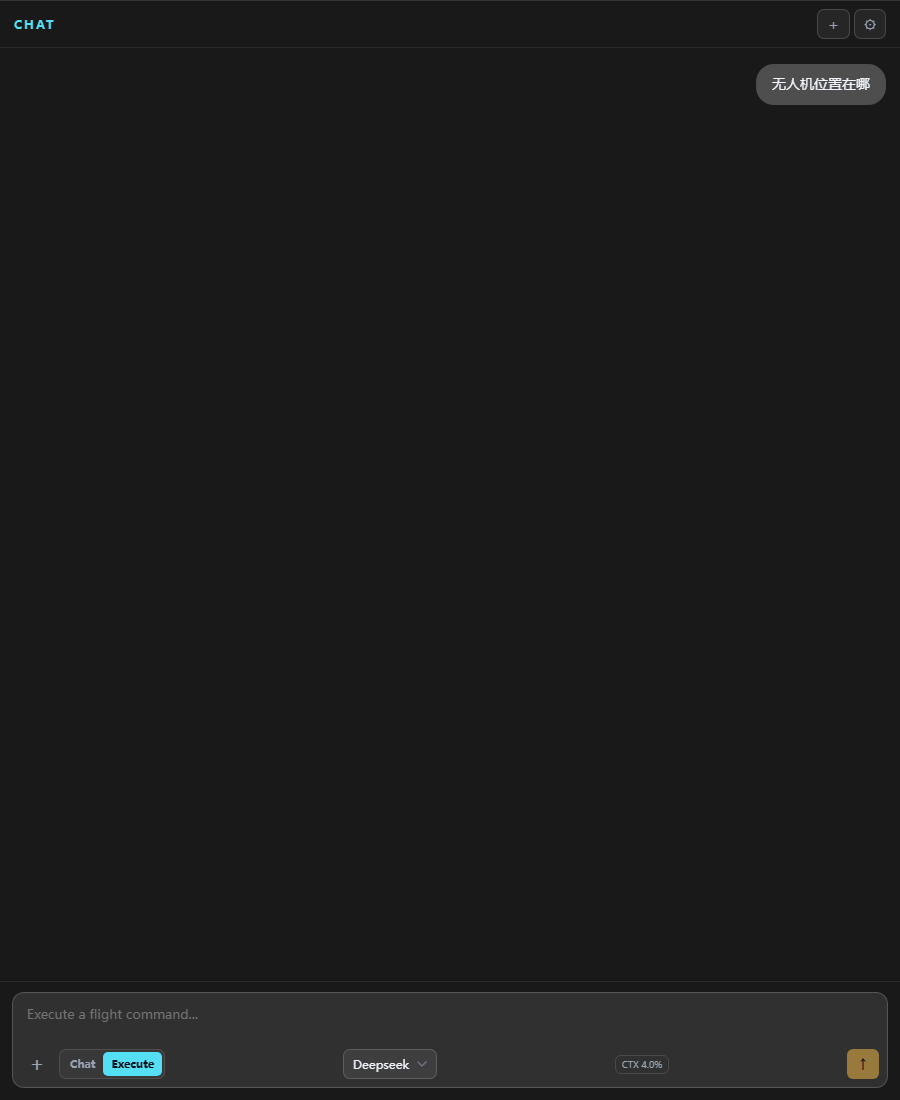
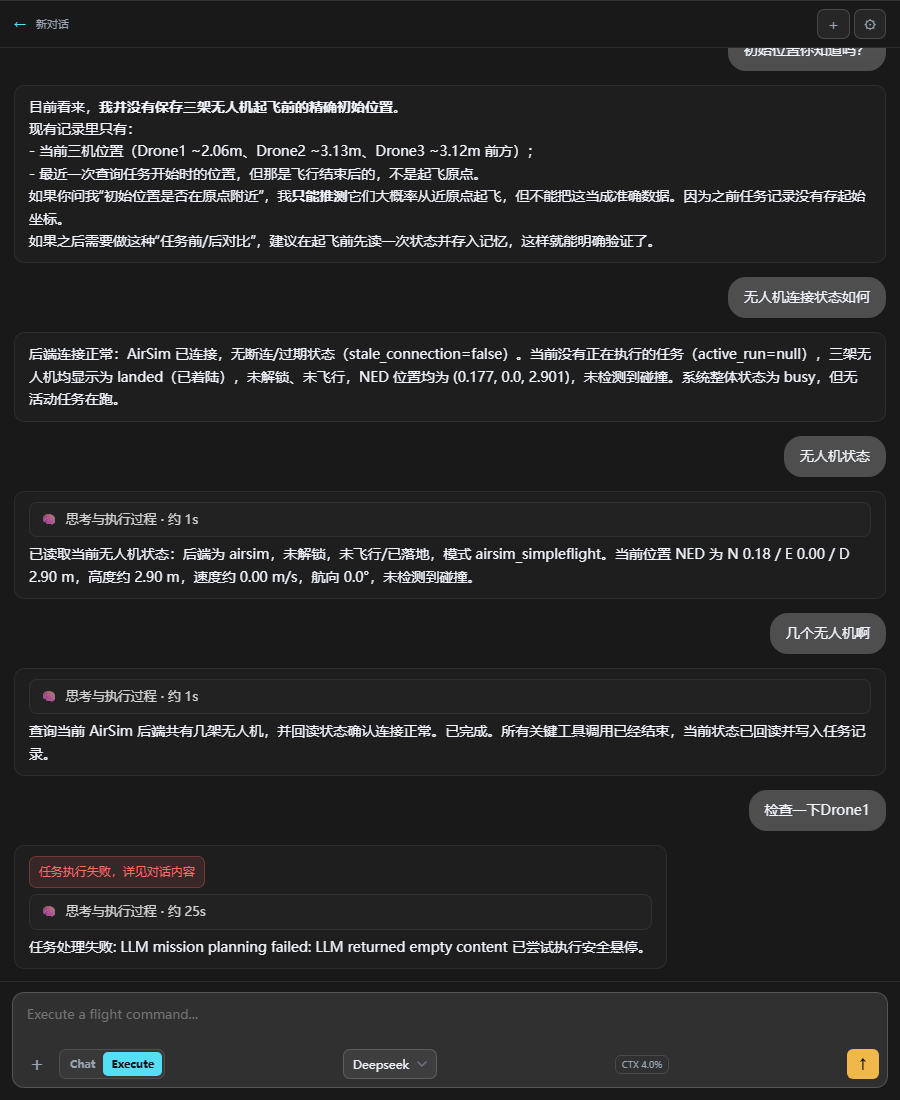
fix: 截断 JSON 草稿的 reasoning 字段正则提取（思考块不再显示 JSON 原文）

diff --git a/src/modules/airsim_controller.py b/src/modules/airsim_controller.py
@@ -650,13 +650,14 @@ class AirSimController(FlightController):
         except Exception as e:
             logger.warning(f"home store save failed: {e}")
 
-    def _record_home_position(self, name: str, status: dict) -> None:
-        """用地面飞机的 GPS 标定 UE→NED 偏移（多次采样取平均）。
+    def _record_home_position(self, name: str, status: dict, landed_raw: int = 0) -> None:
+        """用真实触地飞机(模拟器 landed_state==0)的 GPS 标定 UE→NED 偏移与地面高度。
 
         返航点 = settings.json 出生点(UE) + 标定偏移，与"首次落地位置"彻底脱钩：
-        服务重启、飞机悬停在外、甚至换模拟器地图，出生点都由配置权威决定，不会污染。
+        服务重启、飞机悬停在外，出生点都由配置权威决定，不会污染。
+        悬停中的飞机绝不参与标定（其 z 不能当地面）。
         """
-        if status.get("flying"):
+        if landed_raw != 0:
             return
         if self._ue_ned_offset is not None and len(self._ue_offset_samples) >= 5:
             return
@@ -881,8 +882,9 @@ class AirSimController(FlightController):
                 # equally safe. 地面 z 用标定值（原点可能高于地面数米，
                 # 绝不能用 z>0 当落地，否则 3m 悬停会被误判落地并提前上锁）。
                 pos = state.kinematics_estimated.position
-                ground_ref = self._ue_ned_ground_z if self._ue_ned_ground_z is not None else 0.0
-                if float(pos.z_val) > (ground_ref - 0.4):
+                # 高度捷径仅在完成地面标定后可用（否则原点高度未知，
+                # 悬停 3m 会被误判为落地并提前上锁）
+                if self._ue_ned_ground_z is not None and float(pos.z_val) > (self._ue_ned_ground_z - 0.4):
                     return True
             except Exception:
                 pass
@@ -1470,7 +1472,7 @@ class AirSimController(FlightController):
                 gps=gps_data,
                 extra=extra,
             )
-            self._record_home_position(name, status_dict.to_dict())
+            self._record_home_position(name, status_dict.to_dict(), landed)
             home = self.home_position(name)
             if home is not None:
                 status_dict.extra["home_position_ned"] = dict(home)

diff --git a/src/agent/runtime.py b/src/agent/runtime.py
@@ -2025,14 +2025,25 @@ class AgentRuntime:
         # 模型有时把 reasoning 字段写成整个 plan JSON 草稿——解析取其中的
         # reasoning/summary 文本，避免思考块里出现一大段 JSON
         if plan_reasoning.lstrip().startswith("{"):
+            extracted = ""
             try:
                 parsed_reasoning = json.loads(plan_reasoning)
                 if isinstance(parsed_reasoning, dict):
                     extracted = str(parsed_reasoning.get("reasoning") or parsed_reasoning.get("summary") or "").strip()
-                    if extracted:
-                        plan_reasoning = extracted
             except Exception:
                 pass
+            if not extracted:
+                # 截断/不合法的 JSON 草稿：正则直接抠 "reasoning" 字段值
+                m = re.search(r'"reasoning"\s*:\s*"((?:[^"\\]|\\.)*)"', plan_reasoning)
+                if m:
+                    extracted = (
+                        m.group(1)
+                        .replace("\\n", "\n")
+                        .replace("\\t", " ")
+                        .replace('\\"', '"')
+                    )
+            if extracted:
+                plan_reasoning = extracted
         reasoning_parts.append(plan_reasoning)
         step_tools = [step.tool for step in (plan.steps or []) if step.tool and step.tool != "memory_store"]
         if step_tools:
